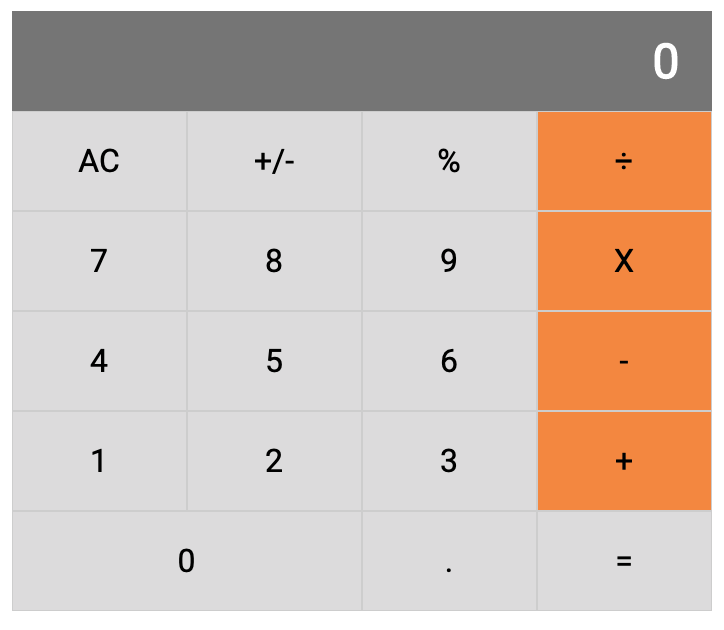
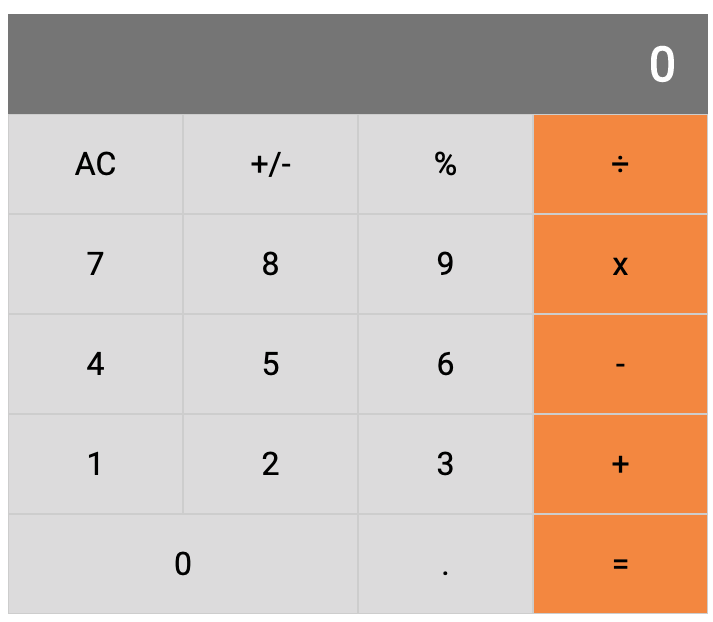
Make changes according per TSE advice

diff --git a/src/components/ButtonPanel.jsx b/src/components/ButtonPanel.jsx
@@ -4,7 +4,7 @@ import Button from './Button';
 function ButtonPanel() {
   const symbolArray = [
     ['AC', '+/-', '%', '÷'],
-    ['7', '8', '9', 'X'],
+    ['7', '8', '9', 'x'],
     ['4', '5', '6', '-'],
     ['1', '2', '3', '+'],
     ['0', '.', '='],
@@ -12,7 +12,7 @@ function ButtonPanel() {
 
   const listedButton = (btnGroup => btnGroup.map(button => {
     let buttonComponent;
-    if (['÷', 'X', '-', '+'].includes(button)) {
+    if (['÷', 'x', '-', '+', '='].includes(button)) {
       buttonComponent = <Button buttonName={button} />;
     } else if (button === '0') {
       buttonComponent = <Button buttonName={button} buttonColor="#E0E0E0" buttonWide />;
